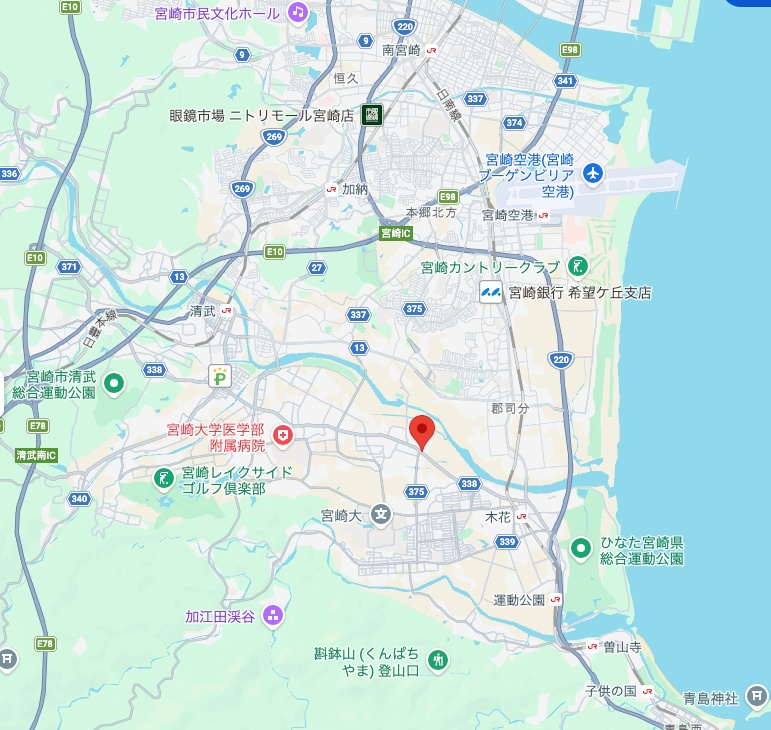
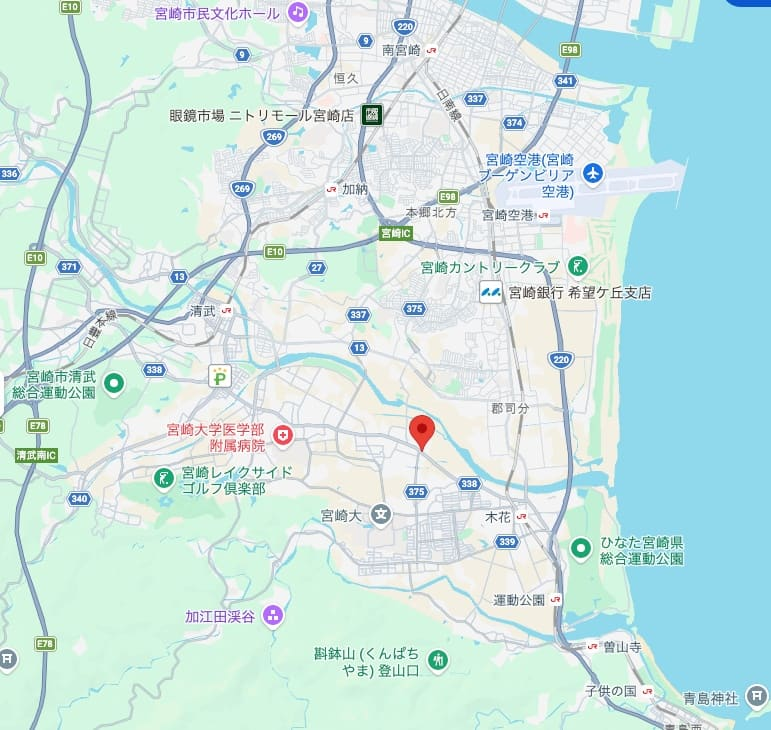
トップページのパフォーマンス・アクセシビリティを改善
今回のPageSpeed Insightsレポート（LCP 11.6秒）を踏まえた対応:
- LCP要素だったモバイル版ヒーロー画像(hero-map.jpg)を、生のimgタグから
  next/imageのfill+priority+fetchPriority="high"に変更し、最適化・
  優先読み込みされるようにした
- hero-map.jpg自体もmozjpegで再圧縮し、212KB→81KBに削減（表示上の
  劣化なし。デスクトップ版の背景画像にも効果あり）
- 不要なレガシーJSポリフィル（Array.prototype.at等）を削減するため、
  package.jsonにbrowserslistを追加しモダンブラウザ向けビルドに変更
- 言語切替ボタンのコントラスト比不足（bg-primary+白文字が約4.5:1で
  ギリギリ）をbg-primary-darkに変更し安全マージンを確保
- フッター下部のリンク群のタップ領域が小さい問題を、py-1.5追加で改善

diff --git a/app/components/Footer.tsx b/app/components/Footer.tsx
@@ -126,31 +126,31 @@ export default function Footer() {
         <div className="container-page flex flex-col items-center justify-between gap-2 py-5 text-xs text-white/50 sm:flex-row">
           <p>&copy; {new Date().getFullYear()} {BRAND[lang].copyright}</p>
           <div className="flex flex-wrap items-center justify-center gap-x-4 gap-y-1 sm:justify-end">
-            <Link href="/first-visit" className="text-white/60 transition-colors hover:text-white">
+            <Link href="/first-visit" className="inline-block py-1.5 text-white/60 transition-colors hover:text-white">
               {t.footer.firstVisitLabel}
             </Link>
-            <Link href="/symptoms" className="text-white/60 transition-colors hover:text-white">
+            <Link href="/symptoms" className="inline-block py-1.5 text-white/60 transition-colors hover:text-white">
               症状から探す
             </Link>
-            <Link href="/faq" className="text-white/60 transition-colors hover:text-white">
+            <Link href="/faq" className="inline-block py-1.5 text-white/60 transition-colors hover:text-white">
               {t.footer.faqLabel}
             </Link>
-            <Link href="/contact" className="text-white/60 transition-colors hover:text-white">
+            <Link href="/contact" className="inline-block py-1.5 text-white/60 transition-colors hover:text-white">
               {t.footer.contactLabel}
             </Link>
-            <Link href="/blog" className="text-white/60 transition-colors hover:text-white">
+            <Link href="/blog" className="inline-block py-1.5 text-white/60 transition-colors hover:text-white">
               {t.footer.blogLabel}
             </Link>
-            <Link href="/news" className="text-white/60 transition-colors hover:text-white">
+            <Link href="/news" className="inline-block py-1.5 text-white/60 transition-colors hover:text-white">
               {t.footer.newsLabel}
             </Link>
-            <Link href="/careers" className="text-white/60 transition-colors hover:text-white">
+            <Link href="/careers" className="inline-block py-1.5 text-white/60 transition-colors hover:text-white">
               {t.footer.careersLabel}
             </Link>
-            <Link href="/privacy" className="text-white/60 transition-colors hover:text-white">
+            <Link href="/privacy" className="inline-block py-1.5 text-white/60 transition-colors hover:text-white">
               {t.footer.privacyLabel}
             </Link>
-            <Link href="/tokushoho" className="text-white/60 transition-colors hover:text-white">
+            <Link href="/tokushoho" className="inline-block py-1.5 text-white/60 transition-colors hover:text-white">
               {t.footer.tokushohoLabel}
             </Link>
             <p>{t.footer.copyrightDept}</p>

diff --git a/app/components/Hero.tsx b/app/components/Hero.tsx
@@ -2,6 +2,7 @@
 
 import { useState } from "react";
 import Link from "next/link";
+import Image from "next/image";
 import { AnimatePresence, motion } from "framer-motion";
 import HeroBackground from "./HeroBackground";
 import LineButton from "./LineButton";
@@ -24,11 +25,15 @@ export default function Hero() {
 
       <div className="container-page">
         {/* スマホ: 地図はバナーとして上に、テキストはその下に配置 */}
-        <div className="-mx-5 mb-7 h-52 overflow-hidden sm:hidden">
-          <img
+        <div className="relative -mx-5 mb-7 h-52 overflow-hidden sm:hidden">
+          <Image
             src="/hero-map.jpg"
             alt="木花のむら総合診療所 開院予定地周辺の地図（宮崎市熊野）"
-            className="h-full w-full object-cover"
+            fill
+            priority
+            fetchPriority="high"
+            sizes="100vw"
+            className="object-cover"
           />
         </div>
 

diff --git a/app/components/LanguageToggle.tsx b/app/components/LanguageToggle.tsx
@@ -23,7 +23,7 @@ export default function LanguageToggle({
         onClick={() => setLang("ja")}
         aria-pressed={lang === "ja"}
         className={`rounded-full px-1.5 py-1 transition-colors sm:px-3 ${
-          lang === "ja" ? "bg-primary text-white" : "text-muted hover:text-ink"
+          lang === "ja" ? "bg-primary-dark text-white" : "text-muted hover:text-ink"
         }`}
       >
         日本語
@@ -33,7 +33,7 @@ export default function LanguageToggle({
         onClick={() => setLang("en")}
         aria-pressed={lang === "en"}
         className={`rounded-full px-1.5 py-1 transition-colors sm:px-3 ${
-          lang === "en" ? "bg-primary text-white" : "text-muted hover:text-ink"
+          lang === "en" ? "bg-primary-dark text-white" : "text-muted hover:text-ink"
         }`}
       >
         EN
